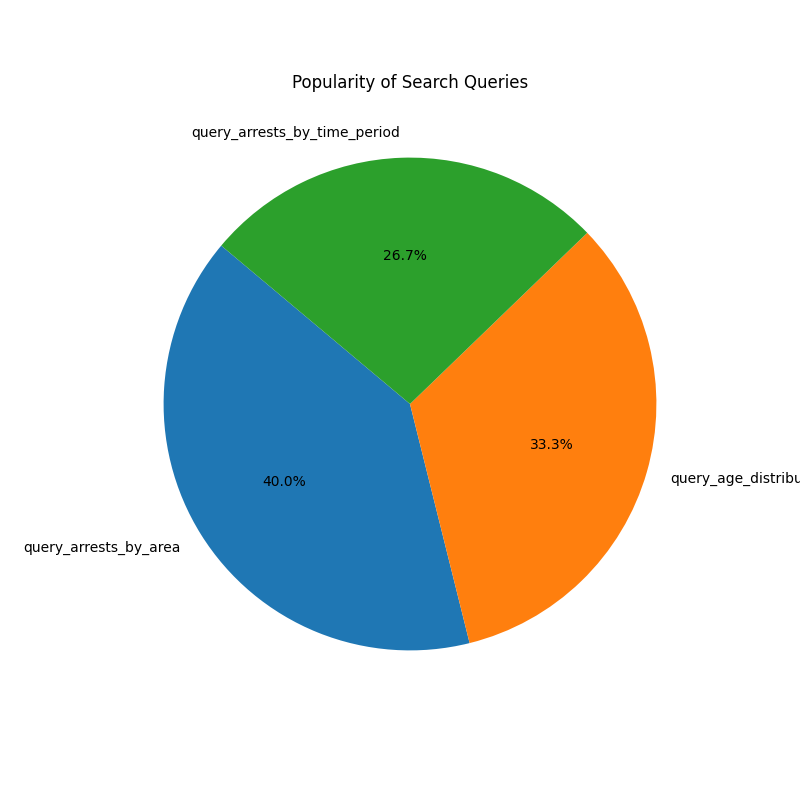
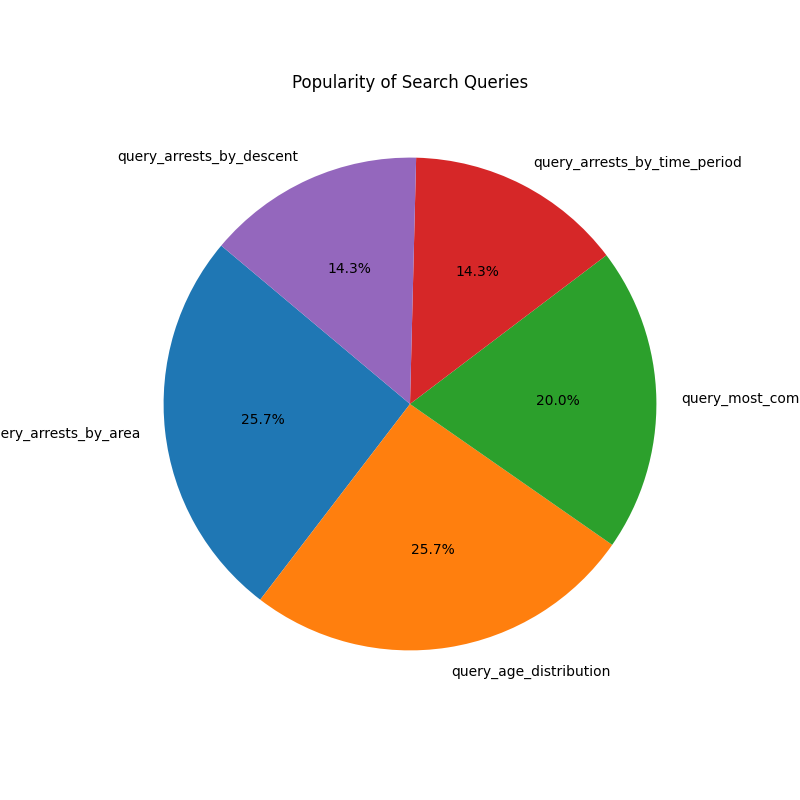
finished product

diff --git a/Client/gui/app_gui.py b/Client/gui/app_gui.py
@@ -4,7 +4,7 @@ from tkinter import ttk, messagebox
 from PIL import Image, ImageTk
 from Client.logic.initial_plots import fetch_initial_plots
 from Client.logic.queries import (
-    query_arrests_by_time_period,
+    query_arrests_by_descent,
     query_arrests_by_area,
     query_age_distribution,
     query_most_common_crime
@@ -21,6 +21,23 @@ class AppGUI(tk.Frame):
         self.pack(fill="both", expand=True)
         toplevel = self.winfo_toplevel()
         toplevel.geometry("1000x600")
+ # Add a top bar for the logout button
+        self.top_bar = tk.Frame(self, bg=THEME["bg"])
+        self.top_bar.pack(fill="x", side="top", pady=(10, 0))
+
+        # Add the logout button
+        logout_button = tk.Button(
+            self.top_bar,
+            text="Logout",
+            font=("Segoe UI", 12, "bold"),
+            bg=THEME["button_bg"],
+            fg=THEME["button_fg"],
+            activebackground=THEME["accent_hover"],
+            activeforeground=THEME["fg"],
+            relief="flat",
+            command=self.logout
+        )
+        logout_button.pack(side="right", padx=(0, 20))
 
         # Modern, wide navigation tabs
         style = ttk.Style()
@@ -136,7 +153,7 @@ class AppGUI(tk.Frame):
         tab_bar.pack(fill="x", pady=(10, 0), padx=0)
 
         tab_names = [
-            "Aantal arrestaties per tijdsperiode",
+            "Aantal arrestaties per herkomst",
             "Arrestaties per gebied",
             "Leeftijdsverdeling (grafiek)",
             "Meest voorkomende misdrijf"
@@ -230,13 +247,30 @@ class AppGUI(tk.Frame):
         self.query_result_label.config(text="Result will appear here.")
         self.query_plot_label.config(image="")
 
-        # Query 1: Aantal arrestaties per tijdsperiode
+        # Query 1: Aantal arrestaties per tijdsdescente
         if idx == 0:
-            self.query_info_label.config(text="Aantal arrestaties per tijdsperiode")
-            tk.Label(self.query_content_frame, text="Tijdsperiode (bijv. maand, week):", font=THEME["font"], bg=THEME["card_bg"], fg=THEME["fg"]).pack(side="left", padx=(0, 10))
-            period_entry = tk.Entry(self.query_content_frame, bg=THEME["entry_bg"], fg=THEME["fg"], insertbackground=THEME["fg"], font=THEME["font"], width=20, relief="flat")
-            period_entry.pack(side="left", padx=(0, 10))
-            btn = tk.Button(self.query_content_frame, text="Zoek", font=("Segoe UI", 12, "bold"), bg=THEME["button_bg"], fg=THEME["button_fg"], activebackground=THEME["accent_hover"], activeforeground=THEME["fg"], relief="flat", command=lambda: self.query_arrests_per_time_period(period_entry.get() , self.logged_in_user.id))
+
+            
+            self.query_info_label.config(text="Aantal arrestaties per tijdsdescente")
+            tk.Label(self.query_content_frame, text="Descent code bv H,G,A:", font=THEME["font"], bg=THEME["card_bg"], fg=THEME["fg"]).pack(side="left", padx=(0, 10))
+            descent_entry = tk.Entry(
+                self.query_content_frame,
+                bg=THEME["entry_bg"],
+                fg=THEME["fg"],
+                insertbackground=THEME["fg"],
+                font=THEME["font"],
+                width=20,
+                relief="flat"
+            )
+            descent_entry.pack(side="left", padx=(0, 10))
+            tk.Label(
+                self.query_content_frame,
+                text="(H for Hindustani, G for Moroccan, A for Antillean, etc.)",
+                font=THEME["font"],
+                bg=THEME["card_bg"],
+                fg=THEME["fg"]
+            ).pack(side="top", pady=(5, 0))  # Use 'top' to stack it below the input field
+            btn = tk.Button(self.query_content_frame, text="Zoek", font=("Segoe UI", 12, "bold"), bg=THEME["button_bg"], fg=THEME["button_fg"], activebackground=THEME["accent_hover"], activeforeground=THEME["fg"], relief="flat", command=lambda: self.query_arrests_by_descent(descent_entry.get() , self.logged_in_user.id))
             btn.pack(side="left")
 
         # Query 2: Arrestaties per gebied
@@ -285,8 +319,8 @@ class AppGUI(tk.Frame):
 
             # Prepare summaries for each plot (customize as needed)
             summaries = [
-                f"Totaal aantal arrestaties: {summary.get('total_arrests', '-')}",
-                f"Periode: {summary.get('date_range', '-')}",
+                f"Totaal aantal arrestaties per descent: {summary.get('total_arrests', '-')}",
+                f"descente: {summary.get('date_range', '-')}",
                 f"Geslachten: {', '.join(str(x) for x in summary.get('genders', [])) if summary else '-'}",
                 f"Top gebieden: {summary.get('top_areas', '-') if summary else '-'}",
                 f"Meest voorkomende misdrijf: {summary.get('top_crime', '-')} ({summary.get('top_crime_count', '-')})"
@@ -350,21 +384,21 @@ class AppGUI(tk.Frame):
 
     # --- Query Handlers ---
 
-    def query_arrests_per_time_period(self, period, user_id):
-        result = query_arrests_by_time_period(self.connection, period , user_id)
-        if "error" in result:
-            self.query_result_label.config(text=f"Error: {result['error']}")
-        else:
-            data = result["data"]
-            result_text = "\n".join([f"{key}: {value}" for key, value in data.items()])
-            self.query_result_label.config(text=f"Arrests by {period}:\n{result_text}")
-
     def query_arrests_per_area(self, area_id, user_id):
-        result = query_arrests_by_area(self.connection, area_id , user_id)
+            result = query_arrests_by_area(self.connection, area_id , user_id)
+            if "error" in result:
+                self.query_result_label.config(text=f"Error: {result['error']}")
+            else:
+                self.query_result_label.config(text=f"Arrests in area {area_id}: {result['arrests']}")
+                
+    def query_arrests_by_descent(self, descent, user_id):
+        result = query_arrests_by_descent(self.connection, descent, user_id)
         if "error" in result:
             self.query_result_label.config(text=f"Error: {result['error']}")
         else:
-            self.query_result_label.config(text=f"Arrests in area {area_id}: {result['arrests']}")
+            descent_code = result["descent_code"]
+            arrests = result["arrests"]
+            self.query_result_label.config(text=f"Arrests for descent '{descent_code}': {arrests}")
 
     def query_age_distribution(self, user_id):
         result = query_age_distribution(self.connection, user_id)
@@ -436,6 +470,16 @@ class AppGUI(tk.Frame):
         except Exception as e:
             self.query_result_label.config(text=f"Error displaying plot: {e}")
 
+    def logout(self):
+        """Handle user logout."""
+        confirm = messagebox.askyesno("Logout", "Are you sure you want to logout?")
+        if confirm:
+            if self.controller:
+                self.controller.destroy()
+            else:
+                self.quit()
+            import sys
+            sys.exit(0)
 def start_app_gui(root, connection, user):
     app = AppGUI(root, root, connection, user)
     root.mainloop()

diff --git a/Server/core/dispatcher.py b/Server/core/dispatcher.py
@@ -3,7 +3,7 @@ from Server.database.queries import add_user, get_user_by_nickname ,log_search_r
 from Server.models.user import User
 from Server.logic.plots import generate_plots
 from Server.logic.queries import (
-    get_arrests_by_time_period,
+    get_arrests_by_descent,
     get_arrests_by_area,
     get_age_distribution,
     get_most_common_crime
@@ -72,14 +72,14 @@ def handle_message(action, data, client_socket, gui_app):
             send_with_length_prefix(client_socket, {"error": "Failed to generate plots"})
             return False
 
-    elif action == "query_arrests_by_time_period":
+    elif action == "query_arrests_by_descent":
         try:
             user_id = data.get("user_id")  # Zorg ervoor dat de client het user_id meestuurt
             log_search_request(user_id, action)  # Log de zoekopdracht
-            time_period = data.get("time_period")
-            result = get_arrests_by_time_period(time_period)
+            descent_code = data.get("descent_code")
+            result = get_arrests_by_descent(descent_code)
             send_with_length_prefix(client_socket, result)
-            gui_app.log(f"[QUERY] Arrests by time period: {time_period}")
+            gui_app.log(f"[QUERY] Arrests by descent code: {descent_code}")
         except Exception as e:
             gui_app.log(f"[ERROR] Failed to process query: {e}")
             send_with_length_prefix(client_socket, {"error": "Failed to process query"})

diff --git a/Server/logic/queries.py b/Server/logic/queries.py
@@ -1,15 +1,6 @@
 import pandas as pd
 from Server.logic.plots import preprocess_data
 
-def get_arrests_by_time_period(time_period):
-    df = preprocess_data()
-    if time_period == "month":
-        result = df['Arrest Date'].dt.to_period("M").value_counts().sort_index().to_dict()
-    elif time_period == "week":
-        result = df['Arrest Date'].dt.to_period("W").value_counts().sort_index().to_dict()
-    else:
-        raise ValueError("Invalid time period. Use 'month' or 'week'.")
-    return {"time_period": time_period, "data": result}
 
 def get_arrests_by_area(area_id):
     df = preprocess_data()
@@ -23,6 +14,12 @@ def get_age_distribution():
         "bins": [round(bin.mid, 1) for bin in age_distribution.index],
         "counts": [int(count) for count in age_distribution.values]
     }
+    
+def get_arrests_by_descent(descent_code):
+    """Retrieve the number of arrests for a specific descent."""
+    df = preprocess_data()
+    result = df[df['Descent Code'] == descent_code].shape[0]
+    return {"descent_code": descent_code, "arrests": result}
 
 def get_most_common_crime(filter_value=None):
     df = preprocess_data()
@@ -32,4 +29,3 @@ def get_most_common_crime(filter_value=None):
     if most_common.empty:
         return {"error": "No crimes found for the given filter"}
     return {"crime": most_common.index[0], "count": int(most_common.values[0])}
-

diff --git a/Client/logic/queries.py b/Client/logic/queries.py
@@ -1,14 +1,13 @@
-def query_arrests_by_time_period(connection, period , user_id):
+def query_arrests_by_descent(connection, descent_code, user_id):
+    """Request the number of arrests for a specific descent."""
     try:
-        connection.send("query_arrests_by_time_period", {"user_id": user_id,"time_period": period})
+        connection.send("query_arrests_by_descent", {"user_id": user_id, "descent_code": descent_code})
         response = connection.query_json_receive()
-        print(f"[DEBUG] Query response: {response}")
         if "error" in response:
             return {"error": response["error"]}
-        return {"data": response["data"]}
+        return response
     except Exception as e:
         return {"error": str(e)}
-
 def query_arrests_by_area(connection, area_id, user_id):
     try:
         connection.send("query_arrests_by_area", {"user_id": user_id,"area_id": area_id})
